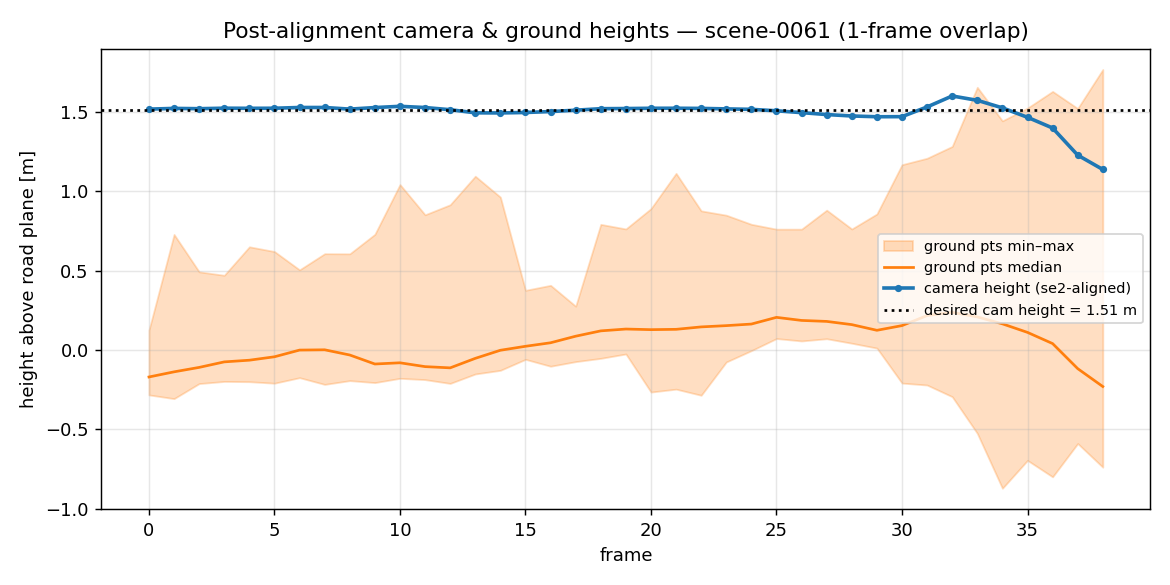
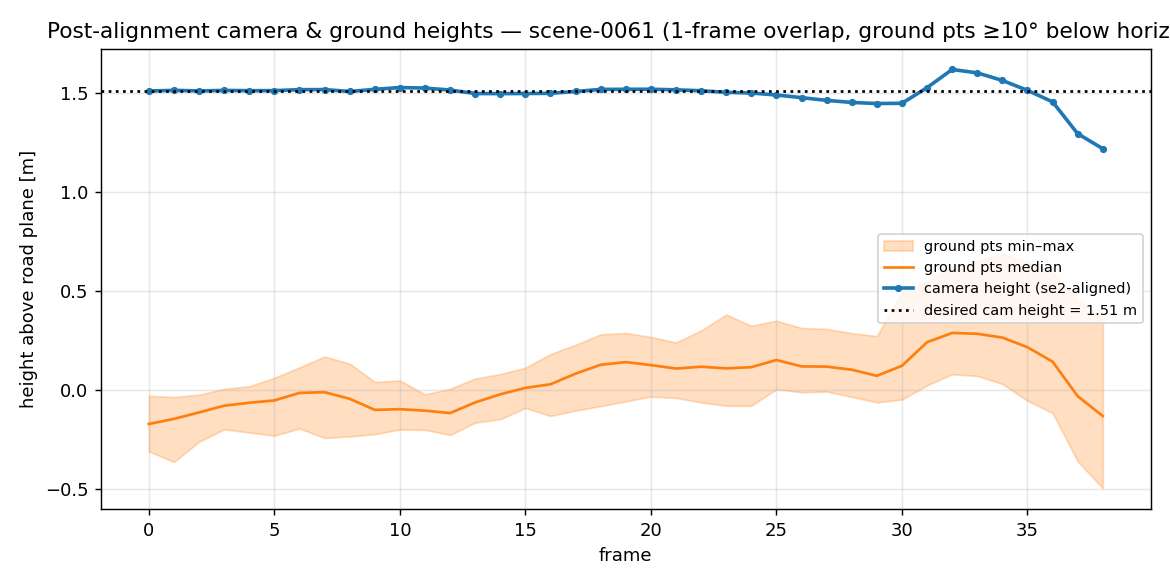
update with horizon angle ground masking

diff --git a/src/nuslam/backend/sim3_graph.py b/src/nuslam/backend/sim3_graph.py
@@ -612,6 +612,17 @@ def metric_init(inputs, values, *, down_axis=(0., 1., 0.)) -> tuple:
     return R_align, alpha
 
 
+def _horizon_below_mask(rays: np.ndarray, horizon_deg: float) -> np.ndarray:
+    """Boolean mask keeping camera-frame rays that point at least ``horizon_deg`` BELOW the horizon,
+    assuming a leveled camera (OpenCV convention: x right, y down, z forward, so the horizon is y=0).
+    Drops the far/near-horizon road (where monocular depth is worst); a geometric cut, not mask-gating."""
+    rays = np.asarray(rays, float)
+    if len(rays) == 0:
+        return np.zeros(0, bool)
+    below_deg = np.degrees(np.arctan2(rays[:, 1], np.hypot(rays[:, 0], rays[:, 2])))   # +ve = below horizon
+    return below_deg >= horizon_deg
+
+
 def _ransac_ground_inliers(P: np.ndarray, *, thresh: float = 0.10, iters: int = 200, seed: int = 0):
     """RANSAC plane fit to camera-frame road points P (n,3); returns an inlier boolean mask. Frame-local
     and gauge-independent -- rejects mask bleed (curbs, low objects) before they poison the ground anchor
@@ -634,6 +645,8 @@ def build_submap_graph(inputs: SubmapGraphInputs, *, rel_sigma: float = 1e-2, al
                        use_anchors: bool = False, ground_sigma: float = 0.6, ego_sigma: float = 0.20,
                        horiz_pos_sigma: float = 1e-2, horiz_head_sigma: float = 1e-3,
                        first_pose_rot_sigma: float = None, apply_metric_init: bool = True,
+                       horizon_deg: float = 10.0,     # keep road >=10 deg below the (leveled) horizon; the
+                       # camera only sees ~19.5 deg down at the bottom row, so this drops the noisy far tail
                        max_ground_per_frame: int = 100, ground_ransac_thresh: float = 0.10):
     """Build the SUBMAP §14 graph (VGGT-SLAM 2.0 style) + initial Values from `inputs`.
 
@@ -708,6 +721,8 @@ def build_submap_graph(inputs: SubmapGraphInputs, *, rel_sigma: float = 1e-2, al
             for j in range(len(sm.frame_idx)):
                 graph.add(EgoOnGroundFactor(_HM(sm.id, j), s2e, ego_noise).as_custom_factor())
                 rays = np.asarray(sm.ground_rays[j], float); depths = np.asarray(sm.ground_depths[j], float)
+                hb = _horizon_below_mask(rays, horizon_deg)      # keep road >= horizon_deg below the horizon
+                rays, depths = rays[hb], depths[hb]
                 if len(rays) < 3: continue                       # skip weakly-supported frames
                 P = depths[:, None] * rays                       # camera-frame road points (metric up to window scale)
                 inl = _ransac_ground_inliers(P, thresh=ground_ransac_thresh)

diff --git a/README.md b/README.md
@@ -953,9 +953,12 @@ lie on the ground plane $z=0$,
 
 $$r = e_z^\top\big(H_i\cdot e^{\rho_m} d\,K^{-1}\tilde u\big)\ \to\ 0.$$
 
-Road pixels come from the segmentation frontend (road minus sky/vehicle); per frame they are
-RANSAC-plane-gated in the camera frame (rejecting curb/low-object mask bleed — RANSAC, not
-least-squares), Huber-robustified, and the noise is **normalized by the surviving point count**
+Road pixels come from the segmentation frontend (SAM3 road minus sky/vehicle). Per frame they are first
+cut to rays **≥10° below the (leveled-camera) horizon** — the camera only sees ~19.5° down at the bottom
+row, so this drops the far-horizon road where monocular depth is unreliable (a small tilt error × 100 m
+ahead is a large height error) without touching the masks, which are clean. They are then
+RANSAC-plane-gated in the camera frame (a cheap robustifier; on these clean masks it keeps ~all of them),
+Huber-robustified, and the noise is **normalized by the surviving point count**
 ($\sigma\propto\sqrt{N}$) so a frame's ground evidence carries a fixed weight regardless of how many
 pixels survive. This factor fixes the plane ($z$, roll, pitch) but is **scale-free**: a plane at $z=0$
 is unchanged by a global rescale, so it cannot pin $s$ alone.
@@ -996,13 +999,13 @@ purely as a diagnostic: it absorbs scale, and its fitted scale is the residual s
 
 | Alignment | ATE rmse | ATE median | RPE trans | RPE rot | fitted scale |
 |---|---|---|---|---|---|
-| **se2** (SO(2)+t, scale = 1) — the metric score | **2.38 m** | 1.52 m | 0.52 m | 0.69° | 1.000 |
-| se3 (SE(3), scale = 1) | 2.38 m | 1.52 m | — | — | 1.000 |
-| sim3 (7-DoF, absorbs scale) — diagnostic | 1.43 m | 0.96 m | — | — | 1.086 |
+| **se2** (SO(2)+t, scale = 1) — the metric score | **2.32 m** | 1.59 m | 0.53 m | 0.69° | 1.000 |
+| se3 (SE(3), scale = 1) | 2.32 m | 1.59 m | — | — | 1.000 |
+| sim3 (7-DoF, absorbs scale) — diagnostic | 1.39 m | 0.85 m | — | — | 1.084 |
 
 That `se2 ≈ se3` confirms the frame is genuinely gravity-aligned (nothing tilts to reduce the error),
-and that `sim3` only improves to 1.43 m by fitting `scale = 1.086` shows the metric scale is correct to
-**~9%** — the gap between the rows *is* that scale error. Recovered camera heights are 1.14–1.60 m
+and that `sim3` only improves to 1.39 m by fitting `scale = 1.084` shows the metric scale is correct to
+**~8%** — the gap between the rows *is* that scale error. Recovered camera heights are 1.22–1.62 m
 against a true mounting height of 1.51 m.
 
 ![se2-aligned trajectory vs GT](docs/factorgraph_traj_se2.png)
@@ -1013,9 +1016,9 @@ submap 4 (purple), consistent with the height plot below.
 ![Post-alignment camera & ground heights](docs/factorgraph_camera_heights.png)
 
 Per-frame, se2-aligned: the camera height (blue) tracks the desired 1.51 m (dotted) across the run,
-drifting only in the final submap; the road points (orange median, min–max band) sit at the $z=0$ plane
-the ground anchor enforces. The tail drift and the band spread are the visible form of the residual 9%
-scale error.
+drifting only in the final submap; the road points (orange median, min–max band) sit tight on the $z=0$
+plane the ground anchor enforces (±0.3–0.5 m, after the ≥10° horizon cut removes the far-horizon depth
+tail). The camera-height dip in the last submap is the visible form of the residual ~8% scale error.
 
 The full SO(2)-aligned reconstruction — per-submap point clouds and camera trajectories (one colour per
 submap) overlaid on the GT track (white) — is in `docs/factorgraph_se2.rrd`
@@ -1028,13 +1031,14 @@ Top: the coloured per-submap point clouds and camera trajectories overlaid on GT
 coincide and the submaps tile the scene. Bottom: the side view shows the reconstruction is flat on the
 ground plane with the cameras floating at the metric mounting height.
 
-**Ground-mask quality (a limitation).** The ground anchor consumes **SAM3** road masks
-(`sam3-road-0.35`, minus sky and vehicle). They are imperfect — `docs/ground_masks.mp4` overlays the
-anchor's ground mask on every frame — and worst in the last submap, where the road label bleeds across
-the curb onto the raised sidewalk/median (with traffic cones) that is **not coplanar** with the
-drivable road. Those off-plane points noise up the ground-plane fit there, which is part of why the
-residual scale/tilt error concentrates in submap 4. The RANSAC per-frame plane gate rejects the worst
-of it, but a tighter road label (or an explicit curb/kerb exclusion) is the clean fix.
+**What actually limits it (not the masks).** The **SAM3** road masks (`sam3-road-0.35`, minus sky and
+vehicle; `docs/ground_masks.mp4` overlays them) are clean and correctly applied — the selected rays land
+in the road region and the RANSAC gate keeps ~all of them. The real error source is **unreliable
+monocular depth at the far horizon**: road pixels near the horizon back-project ~100 m ahead, where a
+small residual tilt becomes a large height error (the ground-point height band ran to ±2 m before, driven
+entirely by that tail, not by any mask bleed). The **≥10° horizon cut** removes it — the band collapses to
+±0.3–0.5 m and the median sits on the plane. A minor curb/median bleed does remain in the last submap, but
+it is second-order next to the depth tail; a tighter road label or explicit kerb exclusion would clean it.
 
 ## Roadmap
 
@@ -1092,9 +1096,10 @@ of it, but a tighter road label (or an explicit curb/kerb exclusion) is the clea
   joint optimization.
 - Factor-graph SLAM — the **submap Sim(3) metric factor graph is built and evaluated** (GTSAM; see
   "Metric factor-graph SLAM"): 5 submaps, 1-frame overlap, semantic-ground + ego-height anchors, GT-free
-  metric init, **se2 ATE 2.38 m** on `scene-0061` with scale locked to ~9%. Near-term on it: tighter road
-  masks / kerb exclusion (the SAM3 bleed that concentrates the residual scale error in the last submap),
-  a wheel-contact anchor beside the camera height, and inverse-covariance ground weighting. Still the
+  metric init, **se2 ATE 2.32 m** on `scene-0061` with scale locked to ~8%. Near-term on it: a
+  wheel-contact anchor beside the camera height, inverse-covariance ground weighting, and pushing the
+  residual scale error in the last submap (the ≥10° horizon cut already removed the far-depth tail that
+  dominated it). Still the
   parked extension — each a standard factor on the same Sim(3) variables at no structural cost: the
   **3DGS render as a factor** (one term among several, never the sole pose authority — §"Pose
   refinement" shows it fails alone), **IMU** (gravity→roll/pitch, gyro→yaw — the DoF that drift under
